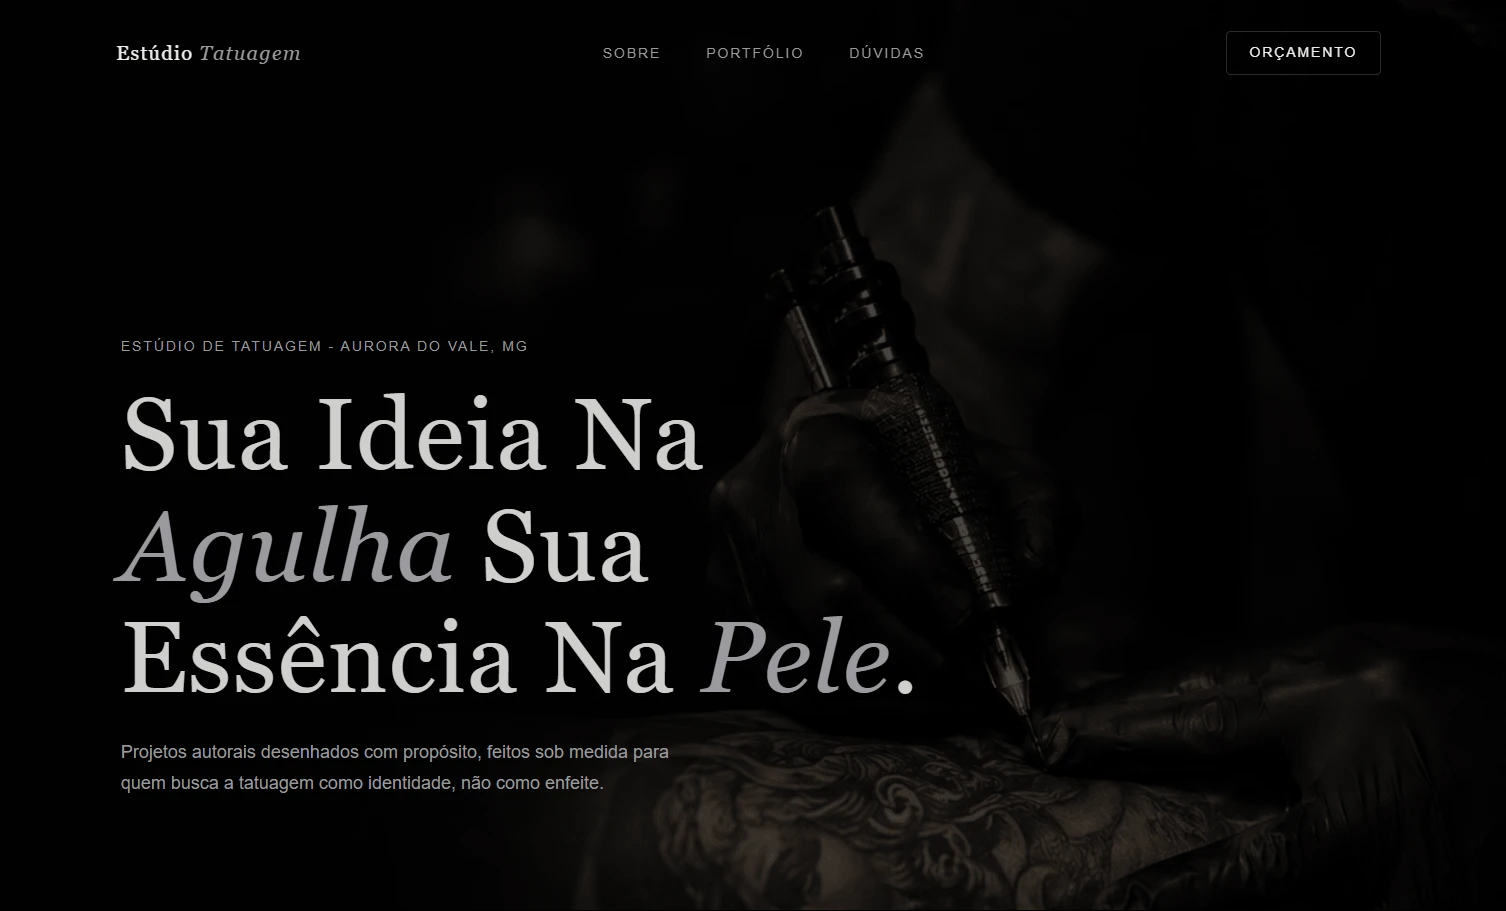
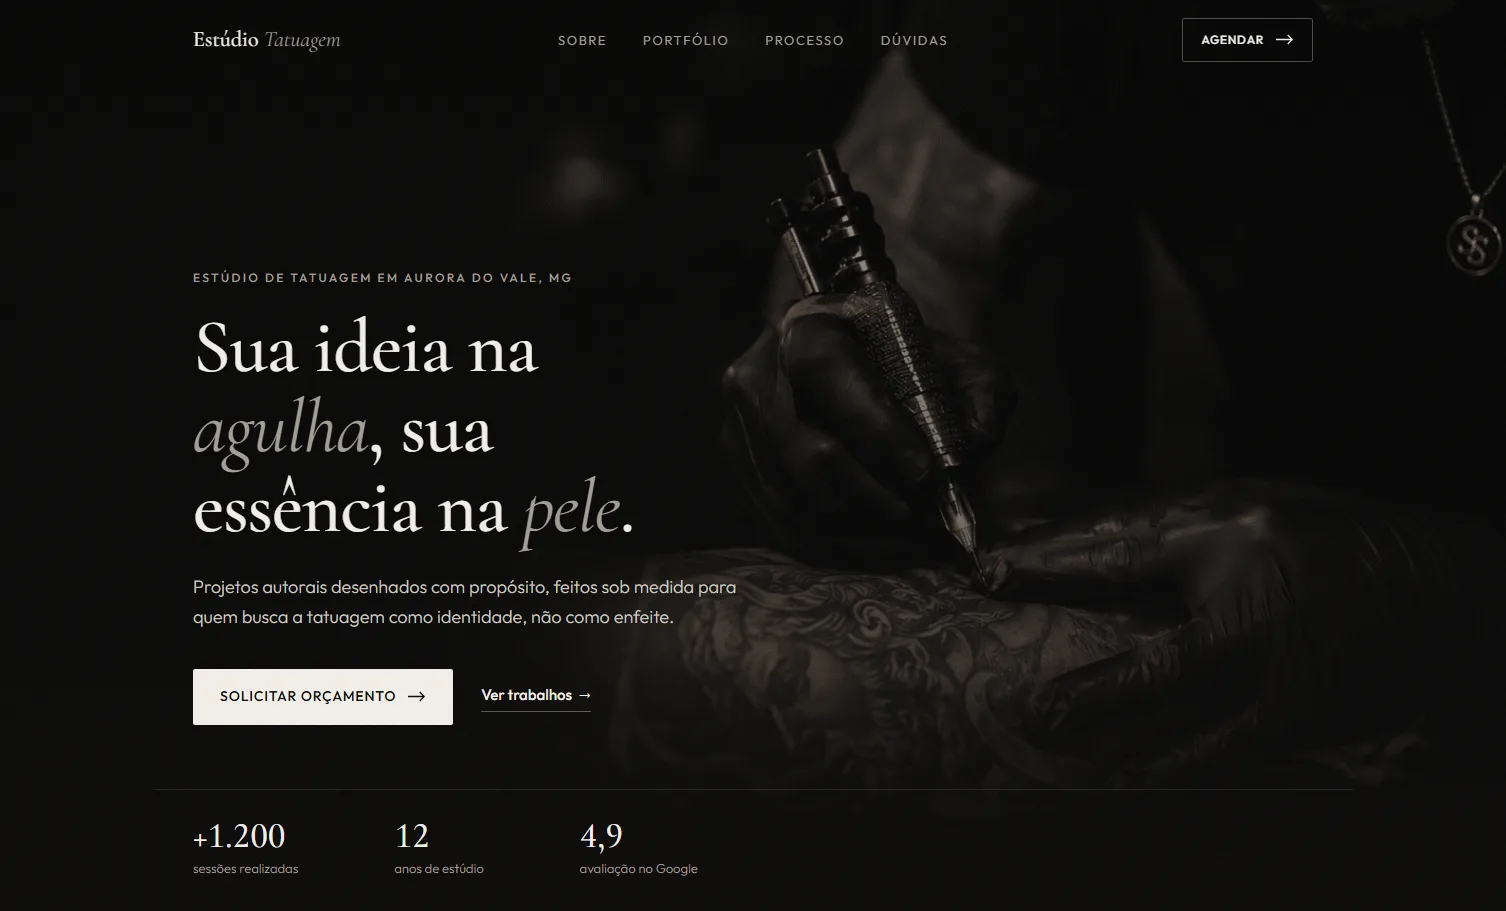
Atualiza o projeto Estúdio Tatuagem após o redesign
Nova captura do hero e descrição com o que o site faz agora.

diff --git a/lib/content.ts b/lib/content.ts
@@ -93,7 +93,7 @@ export const site = {
     {
       title: "Estúdio Tatuagem",
       description:
-        "Site de estudo para um estúdio de tatuagem fictício, feito com HTML e CSS. Visual escuro, tipografia marcante e chamada direta para orçamento.",
+        "Site de estudo para um estúdio de tatuagem fictício, feito com HTML, CSS e JavaScript. Visual escuro com seções claras, portfólio com galeria ampliada, animações ao rolar e pedido de orçamento enviado direto pelo WhatsApp.",
       url: "https://estudiotatuagem-eight.vercel.app/",
       image: "/projects/estudio-tatuagem.webp",
       devices: "/projects/estudio-tatuagem-devices.webp",
